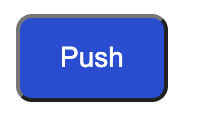
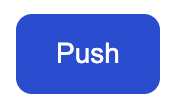
add css modules

Changed region(s): [[0.0549, 0.1091, 0.8791, 0.8727], [0.3022, 0.3545, 0.6593, 0.6]]

diff --git a/React/chapters/chapter3.md b/React/chapters/chapter3.md
@@ -10,6 +10,7 @@
   - [CSS Modulesの注意点](#css-modulesの注意点)
 - [CSS in JS](#css-in-js)
 - [Tailwind](#tailwind)
+- [まとめ](#まとめ)
 
 ## スタイリングを行うコンポーネントの追加
 スタイリングの対象となるボタンコンポーネントを作りましょう。
@@ -131,14 +132,147 @@ export default StyledButton;
 ## style props
 ReactでHTML要素を使う場合に、style propsを渡すことができます。このやり方だと、HTML要素に直接スタイルを記述するので、名前の衝突がありません。また、javascriptの変数も使うことができるので、動的なスタイルも適用できます。
 
-ただし、style propsはパフォーマンスが悪いため、あまり多用しない方が良いでしょう。名前の衝突の回避や動的なスタイルの適用は、後に紹介する方法でもできます。
+style propsは以下のように適用します。`StyledButton.tsx`にボタンを追加し、cssで記述したスタイルをそのままstyle propsに記述していきます。コンポーネントを以下のように修正しましょう。
+
+また、今後ボタンが複数並ぶので、みやすいようにgridも作成しています。
+
+```javascript
+const StyledButton: React.FC = () => {
+  return (
+    <div
+      style={{
+        display: "grid",
+        gridTemplateColumns: "repeat(4, minmax(0, 1fr))",
+        gap: "1rem",
+      }}
+    >
+      <button className="custom-button">Push</button>
+      <button
+        style={{
+          paddingTop: "0.625rem",
+          paddingBottom: "0.635rem",
+          paddingLeft: "1.25rem",
+          paddingRight: "1.25rem",
+          marginBottom: "0.5rem",
+          borderRadius: "0.5rem",
+          fontSize: "0.875rem",
+          lineHeight: "1.25rem",
+          fontWeight: 500,
+          color: "#ffffff",
+          backgroundColor: "#1d4ed8",
+          borderStyle: "none",
+        }}
+      >
+        Push
+      </button>
+    </div>
+  );
+};
+```
+
+こうすることで、同じようなボタンが2つ並びます。
+
+![styled button by style props](../images/ch3_css_styled_button2.png)
+
+ただし、style propsでは、hoverとfocusは、後で紹介する状態管理を使って行う必要があるので、ここでは適用していません。
+
+style propsはパフォーマンスが悪いため、あまり多用しない方が良いでしょう。名前の衝突の回避や動的なスタイルの適用は、後に紹介する方法でもできます。
 
 ## CSS Moldules
 cssをそのまま使った場合にあった問題：名前の衝突を回避するために使われるのが、css modulesです。
 
-cssファイルを使いつつ、読み込んだコンポーネントにのみスタイルを適用することができます。
+css modulesでは、cssは通常通り記述するのですが、最終的に適用されるクラス名が自動生成されたものになるので、名前の衝突が回避できるようになります。
 
-すでにcssを使い慣れている人におすすめの方法です。
+[Raw CSS](#raw-css)で作成したcssファイルと中身が同じものを用意します。
+ファイル名は、`custom-button.module.css`としてください。cssの前に`module`と入れることで、CSS Modulesとして認識してくれます。
+
+以下のファイルを作成してください。
+
+`src/components/custom-button.module.css`
+```css
+.custom-button {
+  padding-top: 0.625rem;
+  padding-bottom: 0.625rem;
+  padding-left: 1.25rem;
+  padding-right: 1.25rem;
+  margin-bottom: 0.5rem;
+  border-radius: 0.5rem;
+  font-size: 0.875rem;
+  line-height: 1.25rem;
+  font-weight: 500;
+  color: #ffffff;
+  background-color: #1d4ed8;
+  border-style: none;
+}
+
+.custom-button:hover {
+  background-color: #1e40af;
+}
+
+.custom-button:focus {
+  outline-style: solid;
+  outline-width: 4px;
+  outline-color: #93c5fd;
+}
+```
+
+それでは、作成したファイルを読み込んでいきましょう。
+CSS Modulesでは、以下のようにimportして使います。
+```javascript
+import styles from "./custom-button.module.css"
+```
+このimportした`styles`を見てみると
+```json
+{"custom-button":"_custom-button_1317u_1"}
+```
+となっており、`"_custom-button_1317u_1"`は、自動生成されたクラス名です。したがって、`styles["custom-button"]`を`className`に指定しましょう。
+```javascript
+<button className={styles["custom-button"]}>Push</button>
+```
+
+`StyledButton.tsx`を以下のように修正しましょう。
+
+```javascript
+import "./custom-button.css";
+import styles from "./custom-button.module.css";
+
+const StyledButton: React.FC = () => {
+  return (
+    <div
+      style={{
+        display: "grid",
+        gridTemplateColumns: "repeat(4, minmax(0, 1fr))",
+        gap: "1rem",
+      }}
+    >
+      <button className="custom-button">Push</button>
+      <button
+        style={{
+          paddingTop: "0.625rem",
+          paddingBottom: "0.635rem",
+          paddingLeft: "1.25rem",
+          paddingRight: "1.25rem",
+          marginBottom: "0.5rem",
+          borderRadius: "0.5rem",
+          fontSize: "0.875rem",
+          lineHeight: "1.25rem",
+          fontWeight: 500,
+          color: "#ffffff",
+          backgroundColor: "#1d4ed8",
+          borderStyle: "none",
+        }}
+      >
+        Push
+      </button>
+      <button className={styles["custom-button"]}>Push</button>
+    </div>
+  );
+};
+
+export default StyledButton;
+```
+
+cssの書き方は、変わらないので、すでにcssを使い慣れている人におすすめの方法です。
 
 ### CSS Modulesの注意点
 
@@ -171,3 +305,8 @@ Tailwindのメリット
 - クラス名からスタイルが分かる。
 
 まず、Tailwindのインストール手順です。
+
+## まとめ
+全体に適用するスタイルは、cssで記述しましょう。各コンポーネントで適用するスタイルは、CSS Modules, CSS in JS, Tailwindの中から自分に合ったものを選びましょう。
+
+本資料では、Tailwind CSSを使っていきます。
